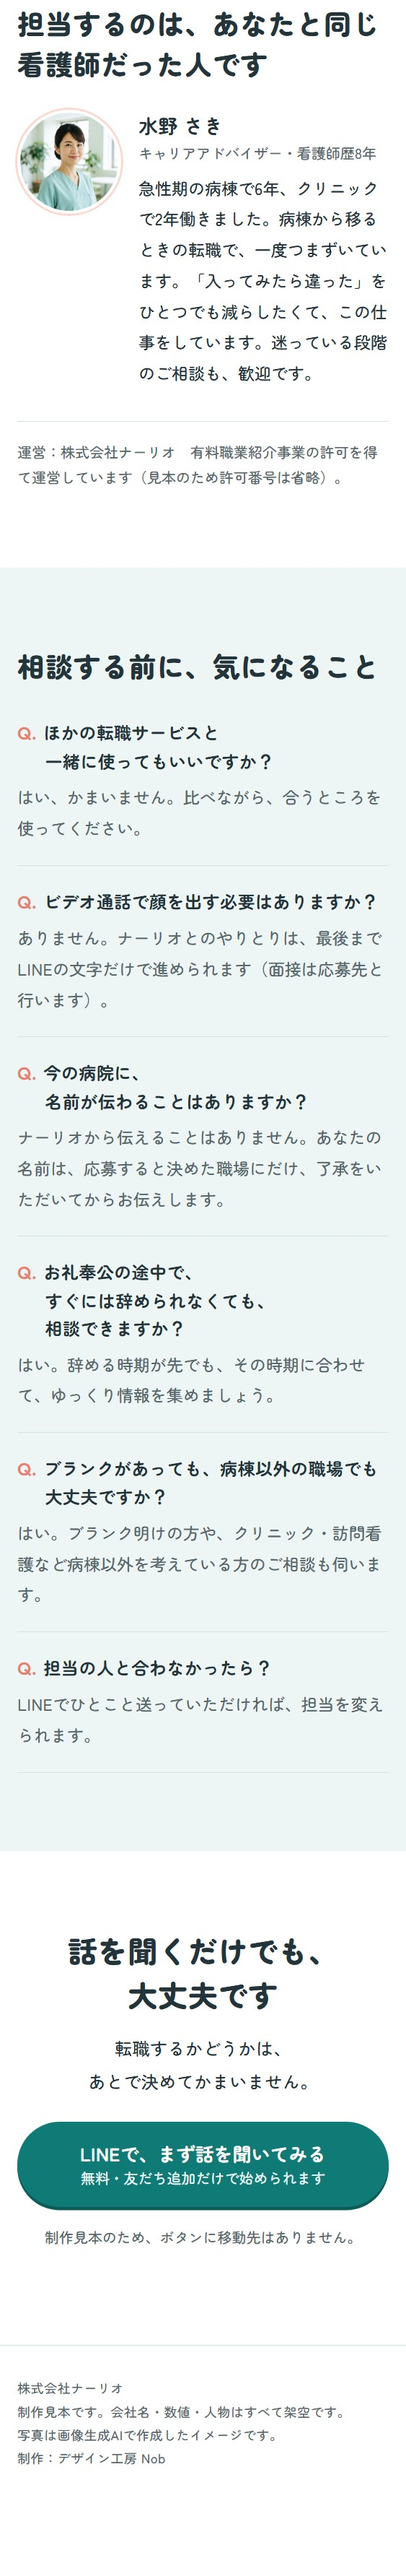
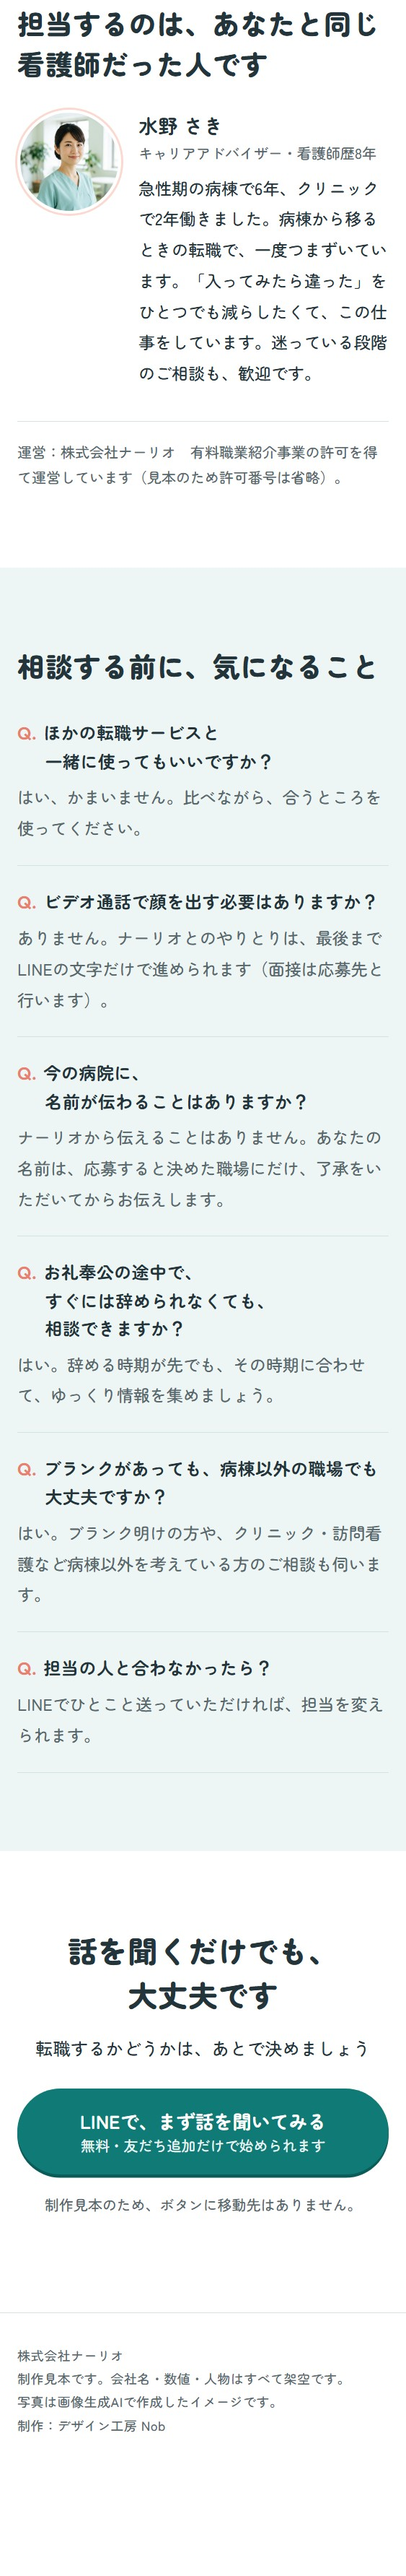
Update 261117

Changed region(s): [[0.0302, 0.778, 0.9663, 0.8713], [0.0302, 0.9024, 0.4529, 0.9647], [0.5435, 0.9024, 0.5737, 0.9647]]

diff --git a/261117/index.html b/261117/index.html
@@ -160,6 +160,7 @@ h3{font-size:18px;font-weight:700;line-height:1.6}
 .last{text-align:center;padding-bottom:88px}
 .last h2{font-size:27px}
 .last .btn{max-width:420px;margin-inline:auto}
+.last .lead{margin-inline:auto}
 .sample-note{margin-top:16px}
 
 
@@ -370,7 +371,7 @@ footer{padding:28px 16px 96px;border-top:1px solid var(--line);font-size:12px;li
 
 <section class="last" id="start">
   <h2 class="rv"><span class="nb">話を聞くだけでも、</span><span class="nb">大丈夫です</span></h2>
-  <p class="lead rv"><span class="nb">転職するかどうかは、</span><span class="nb">あとで決めてかまいません。</span></p>
+  <p class="lead rv"><span class="nb">転職するかどうかは、</span><span class="nb">あとで決めましょう</span></p>
   <a class="btn rv" id="last-btn" href="#start">LINEで、まず話を聞いてみる<small>無料・友だち追加だけで始められます</small></a>
   <p class="note sample-note">制作見本のため、ボタンに移動先はありません。</p>
 </section>
